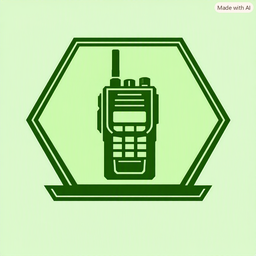
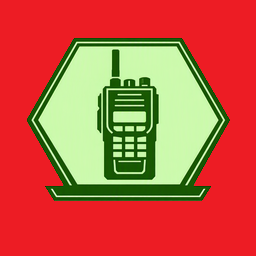
feat: dock estrategico completo + mobile (ordem icones, aph/bloq, tabela minimizavel)

diff --git a/index.html b/index.html
@@ -318,14 +318,26 @@
       pointer-events: none; z-index: 99999; opacity: 0.85; filter: drop-shadow(0 0 6px rgba(90, 140, 190, 0.7));
     }
 
-    #tabRelevo.active { display: flex; flex-direction: column; }
-    #tabRelevo #mapRelevo { height: 68.5%; flex-shrink: 0; }
-    #tabRelevo .tactical-table-wrap { flex: 1; min-height: 0; display: flex; flex-direction: column; background: var(--bg); border-top: 2px solid var(--line); }
+    /* No celular, o vão entre mapa+dock e tabela é apertado — mapRelevo agora
+       cresce (flex:1) pra ceder espaço quando a tabela é minimizada, em vez
+       de ficar travado em 68.5% fixo. overflow-y:auto na aba inteira é uma
+       rede de segurança: em telas muito baixas (paisagem, teclado aberto)
+       onde nem o mínimo de mapa (220px) + cabeçalho da tabela cabem, dá pra
+       rolar em vez de simplesmente cortar o conteúdo. */
+    #tabRelevo.active { display: flex; flex-direction: column; overflow-y: auto; -webkit-overflow-scrolling: touch; }
+    #tabRelevo #mapRelevo { flex: 1 1 68.5%; min-height: 220px; }
+    #tabRelevo .tactical-table-wrap {
+      flex: 0 0 31.5%; min-height: 0; display: flex; flex-direction: column;
+      background: var(--bg); border-top: 2px solid var(--line);
+    }
+    #tabRelevo .tactical-table-wrap.collapsed { flex: 0 0 auto; }
+    #tabRelevo .tactical-table-wrap.collapsed .tactical-table-scroll { display: none; }
     #tabRelevo .tactical-table-header {
       background: var(--surface); color: var(--accent); font-weight: 800; padding: 8px 12px;
       font-size: 11px; text-transform: uppercase; letter-spacing: 0.5px; flex-shrink: 0;
       display: flex; align-items: center; justify-content: space-between; gap: 8px;
     }
+    #tabRelevo .tactical-table-header-actions { display: flex; align-items: center; gap: 6px; flex-shrink: 0; }
     #tabRelevo .tactical-table-scroll { flex: 1; overflow-y: auto; -webkit-overflow-scrolling: touch; }
     .tactical-table { width: 100%; border-collapse: collapse; font-size: 11px; }
     .tactical-table thead th {
@@ -938,7 +950,10 @@ body.nvg-red-mode .leaflet-tile-container img {
   <div class="tactical-table-wrap">
     <div class="tactical-table-header">
       <span>📋 PONTOS TÁTICOS REGISTRADOS</span>
-      <button onclick="openPontosTableModal()" style="background:var(--action); color:#fff; border:none; border-radius:6px; padding:5px 10px; font-weight:800; font-size:10px; cursor:pointer; text-transform:none; letter-spacing:0;">⛶ Tela Cheia</button>
+      <div class="tactical-table-header-actions">
+        <button onclick="openPontosTableModal()" style="background:var(--action); color:#fff; border:none; border-radius:6px; padding:5px 10px; font-weight:800; font-size:10px; cursor:pointer; text-transform:none; letter-spacing:0;">⛶ Tela Cheia</button>
+        <button type="button" class="dock-toggle-btn" data-table-toggle aria-label="Minimizar tabela">▾</button>
+      </div>
     </div>
     <div class="tactical-table-scroll">
       <table class="tactical-table">
@@ -1581,10 +1596,6 @@ body.nvg-red-mode .leaflet-tile-container img {
       { id: 'vtr1',      label: 'Viatura',    icon: 'icons/vtr1.png',     dock: 'h' },
       { id: 'aph',       label: 'APH',        icon: 'icons/APH.png',      dock: 'h' },
       { id: 'priority',  label: 'Prioridade', icon: 'icons/priority.png', dock: 'h' },
-      { id: 'avanco',    label: 'Avanço',     icon: 'icons/avanço.png',   dock: 'h' },
-      { id: 'avanco2',   label: 'Avanço 2',   icon: 'icons/avanço2.png',  dock: 'h' },
-      { id: 'avanco3',   label: 'Avanço 3',   icon: 'icons/avanço3.png',  dock: 'h' },
-      { id: 'avanco4',   label: 'Avanço 4',   icon: 'icons/avanço4.png',  dock: 'h' },
       { id: 'sote',      label: 'SOTE',       icon: 'icons/sote.png',     dock: 'h' },
       { id: 'sap',       label: 'SAP',        icon: 'icons/sap.png',      dock: 'h' },
       { id: 'saer',      label: 'SAER',       icon: 'icons/saer.png',     dock: 'h' },
@@ -1604,8 +1615,29 @@ body.nvg-red-mode .leaflet-tile-container img {
       // salvos com esses tipos (não aparecem mais pra escolher, mas continuam
       // renderizando certo no mapa/tabela se já existirem).
       { id: 'boca',      label: 'Boca',       icon: 'icons/boca.png',      dock: null },
-      { id: 'intel',     label: 'Intel',      icon: 'icons/intel.png',     dock: null }
+      { id: 'intel',     label: 'Intel',      icon: 'icons/intel.png',     dock: null },
+      // Exclusivos do Dock Estratégico (aba Pontos) — não entram no dock 'h'
+      // nem no 'l', só aparecem via ESTRATEGICO_ORDER logo abaixo.
+      { id: 'heli',        label: 'Helicóptero', icon: 'icons/heli.png',        dock: null },
+      { id: 'cami1',       label: 'Caminhão',    icon: 'icons/cami1.png',       dock: null },
+      { id: 'cam2',        label: 'Filmadora',   icon: 'icons/cam2.png',        dock: null },
+      { id: 'contato',     label: 'Contato',     icon: 'icons/contato.png',     dock: null },
+      { id: 'bloq',        label: 'Bloqueio de Sinal', icon: 'icons/bloq.png',  dock: null },
+      { id: 'avanco-1',    label: 'Avanço',      icon: 'icons/avanço-1.png',    dock: null },
+      { id: 'avanco2-1',   label: 'Avanço 2',    icon: 'icons/avanço2-1.png',   dock: null },
+      { id: 'avanco3-1',   label: 'Avanço 3',    icon: 'icons/avanço3-1.png',   dock: null },
+      { id: 'avanco4-1',   label: 'Avanço 4',    icon: 'icons/avanço4-1.png',   dock: null }
     ].map(t => ({ ...t, icon: ASSET_BASE + t.icon + '?' + ICON_VER }));
+    // Ordem fixa do Dock Estratégico (aba Pontos), definida à mão em 3 blocos
+    // agrupados visualmente — não segue a ordem/filtro dos docks 'h'/'l'.
+    const ESTRATEGICO_ORDER = [
+      // Bloco 1 — preenchimento vermelho / risco
+      'contencao', 'boca', 'barricade', 'radinhos', 'seteira', 'trilho', 'bunker', 'vala', 'barreira',
+      // Bloco 2 — meios
+      'patrol', 'sniper', 'armored', 'heli', 'vtr1', 'cami1', 'intel', 'target', 'cam', 'cam2', 'aph',
+      // Bloco 3 — apoio / avanço
+      'sote', 'sap', 'drone', 'saer', 'eab', 'canil', 'priority', 'contato', 'bloq', 'avanco-1', 'avanco2-1', 'avanco3-1', 'avanco4-1'
+    ];
     let tacticalMarkers = {};
     let tacticalLayerNormal = L.layerGroup();
     let tacticalLayerRelevo = L.layerGroup();
@@ -3196,10 +3228,13 @@ function renderIconDocks() {
 
   hDock.innerHTML = TACTICAL_MARKER_TYPES.filter(t => t.dock === 'h').map(dockIconHtml).join('');
   lDock.innerHTML = TACTICAL_MARKER_TYPES.filter(t => t.dock === 'l').map(dockIconHtml).join('');
-  // Dock Estratégico (aba Pontos) oferece o catálogo INTEIRO de ícones — é
-  // pra isso que ele existe, ao contrário dos dois de cima, que dividem os
-  // tipos entre si.
-  if (eDock) eDock.innerHTML = TACTICAL_MARKER_TYPES.map(dockIconHtml).join('');
+  // Dock Estratégico (aba Pontos) usa uma ordem própria, fixa, definida à mão
+  // (agrupada em 3 blocos — preenchimento vermelho / meios / apoio-avanço),
+  // em vez de herdar a ordem dos docks 'h'/'l'.
+  if (eDock) eDock.innerHTML = ESTRATEGICO_ORDER
+    .map(id => getTacticalType(id))
+    .filter(Boolean)
+    .map(dockIconHtml).join('');
 
   document.querySelectorAll('.dock-icon-item').forEach(el => {
     el.addEventListener('pointerdown', onDockIconPointerDown);
@@ -3207,6 +3242,32 @@ function renderIconDocks() {
 
   initDockCarousels();
   setupDockToggles();
+  setupTableToggle();
+}
+
+// Botão "▾/▸" da tabela "Pontos Táticos Registrados" (aba Pontos): minimiza
+// pra deixar só o cabeçalho, dando mais espaço vertical pro mapa (e pro Dock
+// Estratégico por cima dele) no celular. Depois de mudar o tamanho, o Leaflet
+// precisa de invalidateSize() pra redesenhar os tiles direito, e o dock/a
+// barra de desenho precisam recalcular a posição (dependem da altura real do
+// mapa, que mudou).
+function setupTableToggle() {
+  document.querySelectorAll('.tactical-table-wrap [data-table-toggle]').forEach(btn => {
+    if (btn.dataset.toggleBound) return;
+    btn.dataset.toggleBound = '1';
+    btn.addEventListener('click', () => {
+      const wrap = btn.closest('.tactical-table-wrap');
+      if (!wrap) return;
+      const collapsed = wrap.classList.toggle('collapsed');
+      btn.textContent = collapsed ? '▸' : '▾';
+      btn.setAttribute('aria-label', collapsed ? 'Abrir tabela' : 'Minimizar tabela');
+      setTimeout(() => {
+        if (typeof mapRelevo !== 'undefined' && mapRelevo) mapRelevo.invalidateSize();
+        if (typeof positionDrawToolbar === 'function') positionDrawToolbar(mapRelevo, document.getElementById('drawToolbarRelevo'), 'right');
+        if (typeof positionDockEstrategico === 'function') positionDockEstrategico(mapRelevo, document.getElementById('tacticalDockEstrategicoWrap'));
+      }, 30);
+    });
+  });
 }
 
 // Botão "▾/▸" de cada dock (fica dentro da própria barra, junto das setas):
